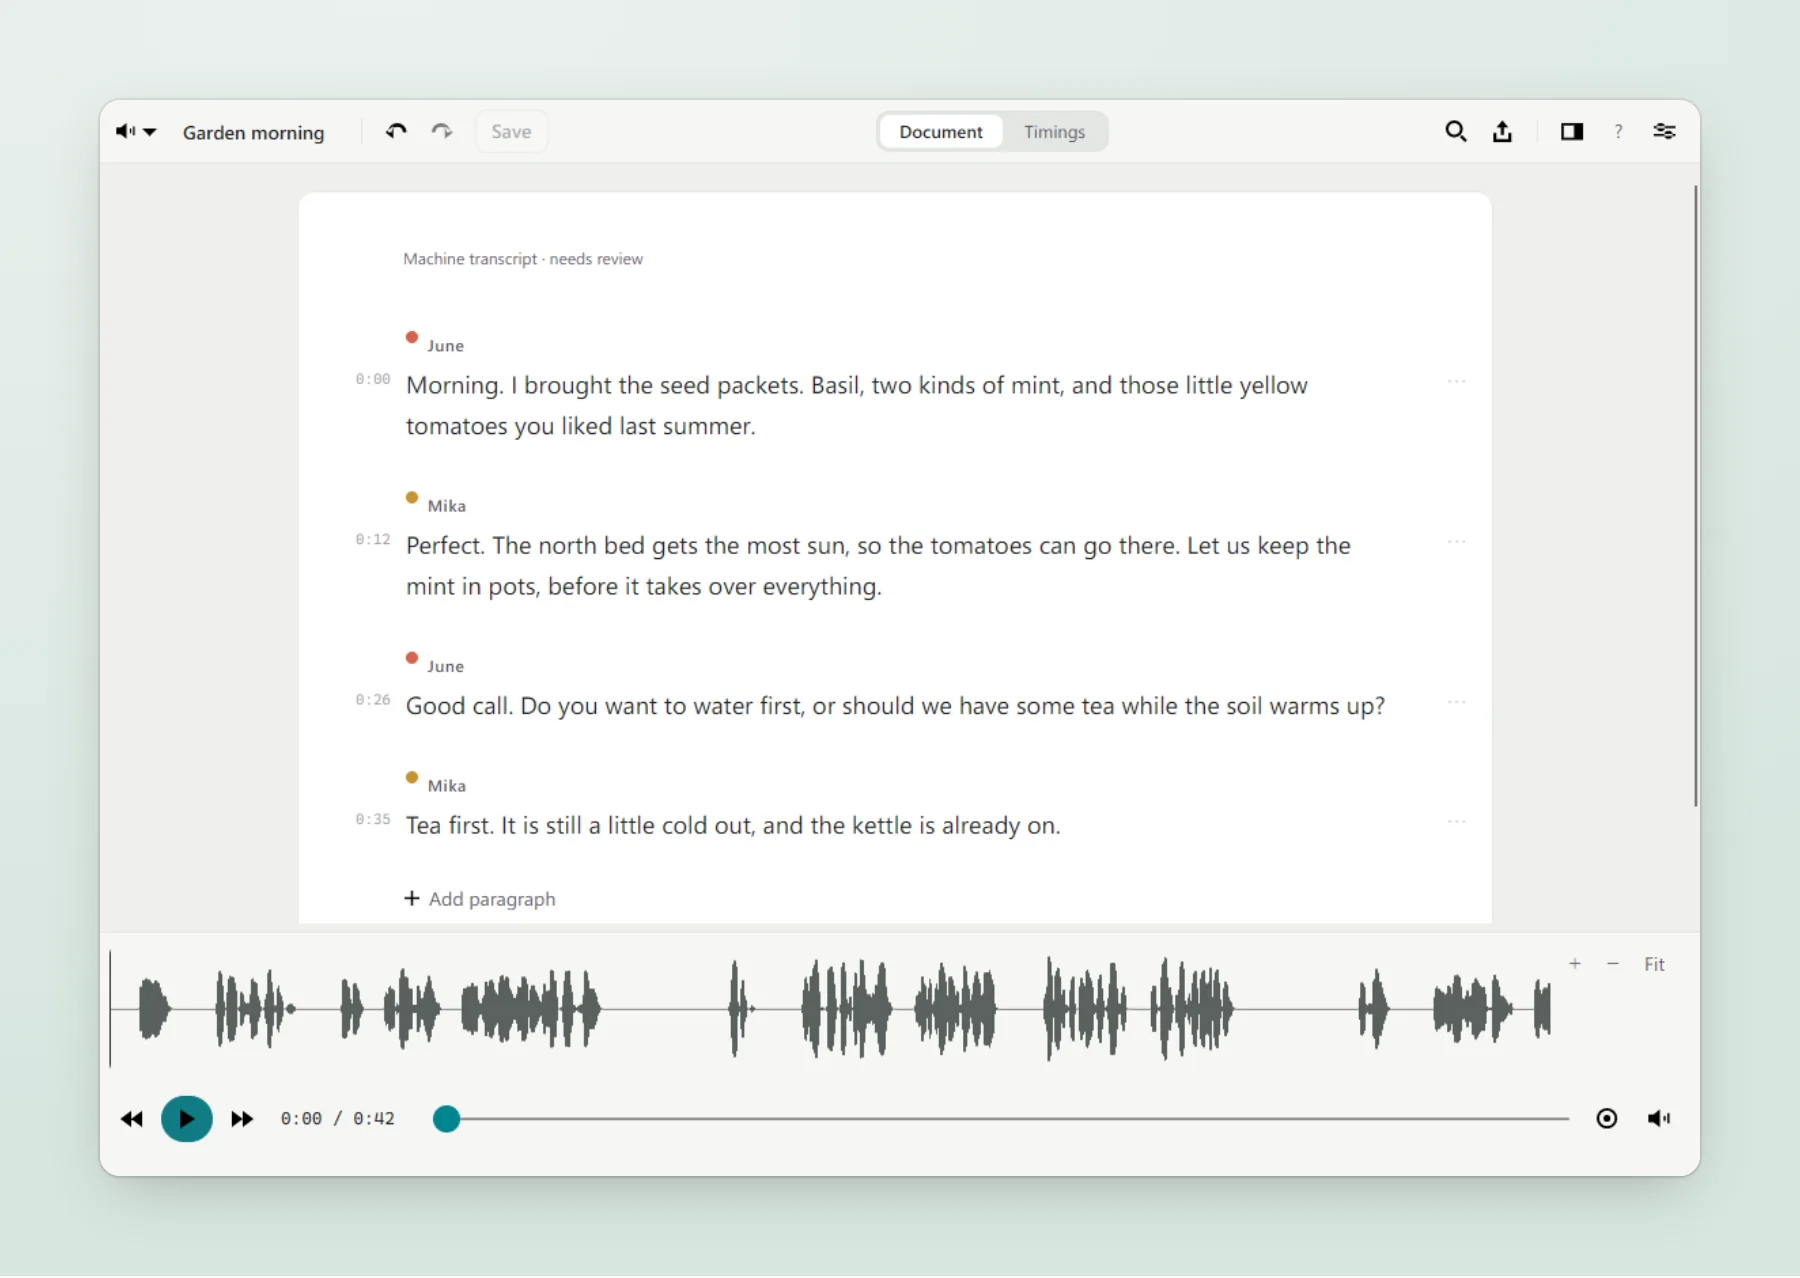
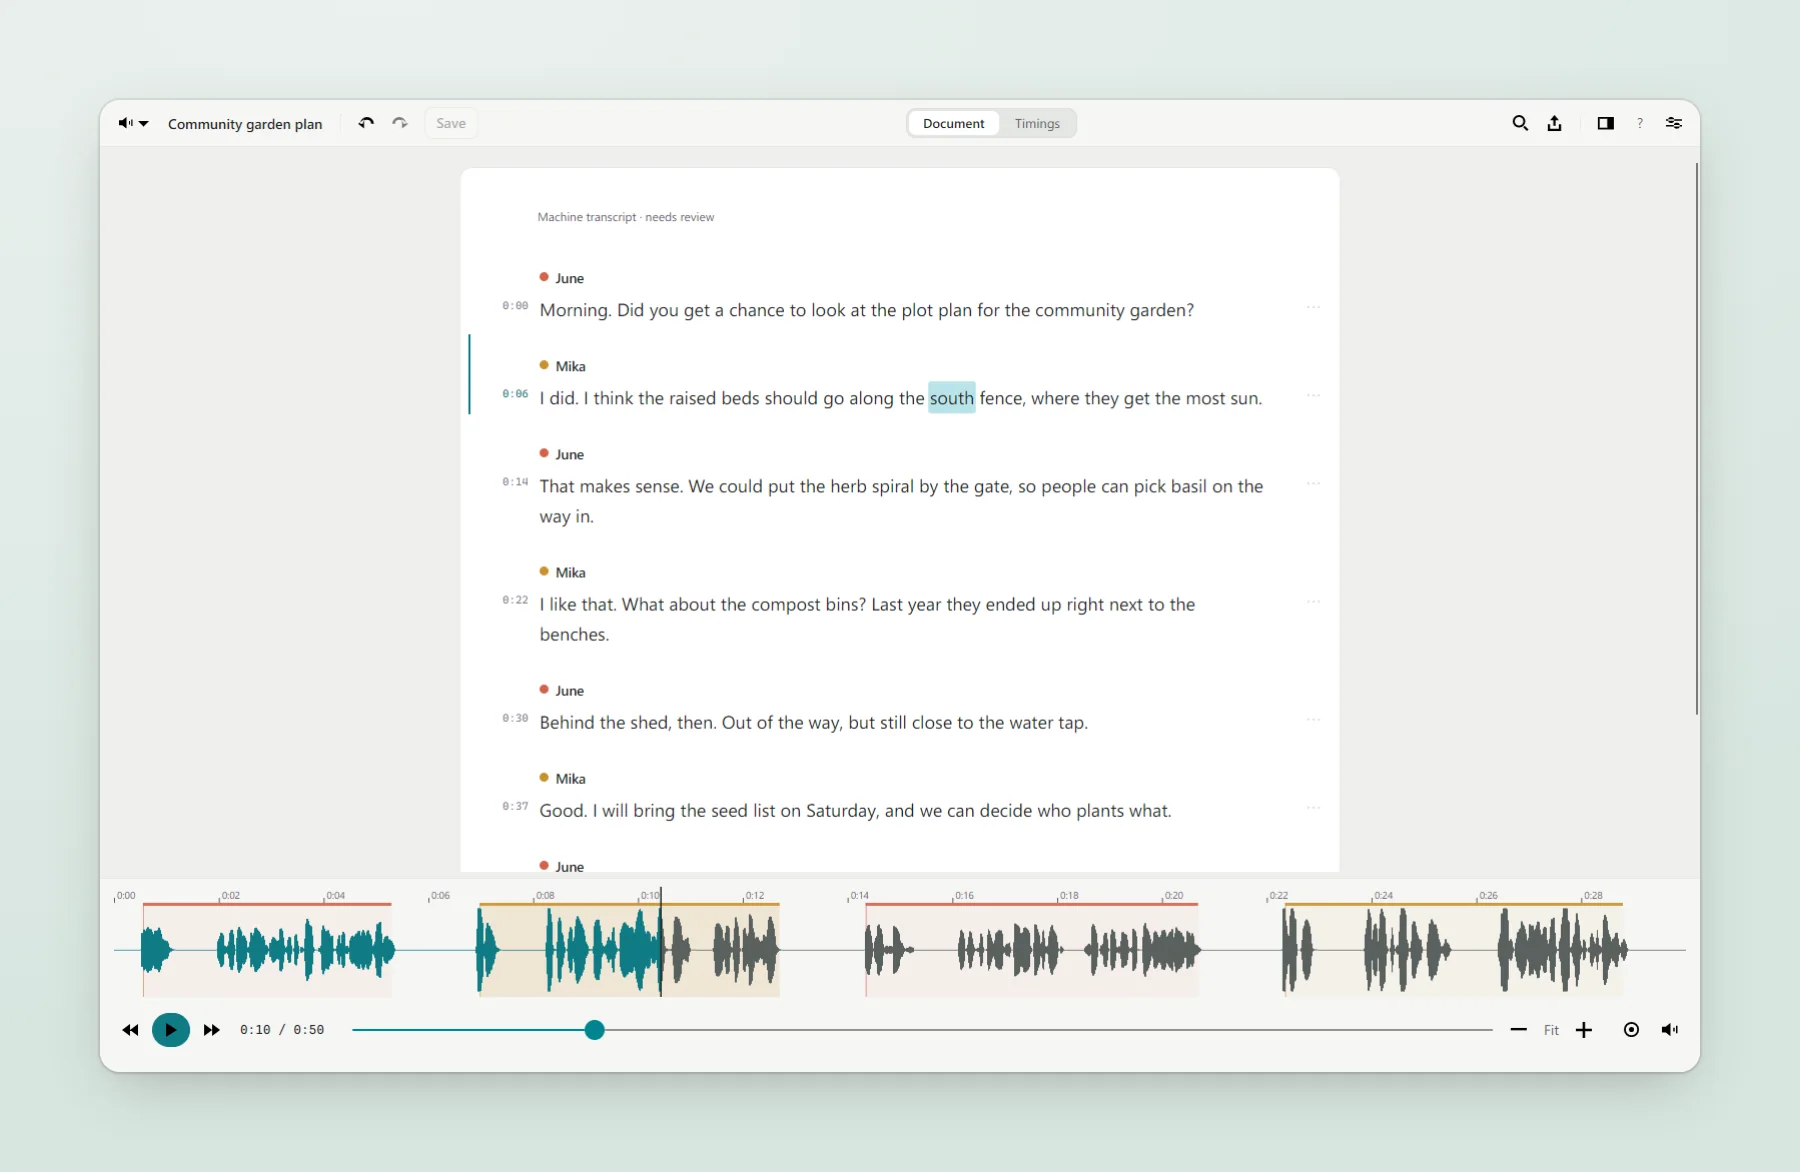
Publish SoundOff v0.2.0 downloads and fresh app screenshots
The SoundOff page links the 0.2.0 release, says what is new in it, and shows
the new start screen. The light and dark shots are a fresh two-voice
text-to-speech conversation transcribed by SoundOff's own WhisperX worker,
with the speakers split and named afterwards and the playhead parked in
Mika's paragraph so the lit word and its waveform band show. frame.mjs can
now reframe just the shots it is given.

diff --git a/site/soundoff/index.html b/site/soundoff/index.html
@@ -21,14 +21,14 @@
       <h1>SoundOff</h1>
       <p class="tagline">A local transcription editor for Windows. Import or record audio and video, transcribe it on your computer, and review word-synced text and speakers. No account, no upload, no hosted inference.</p>
       <div class="actions">
-        <a class="button" href="https://github.com/vaynealtapascine/SoundOff/releases/tag/v0.1.0">Get the preview build</a>
+        <a class="button" href="https://github.com/vaynealtapascine/SoundOff/releases/download/v0.2.0/SoundOff-0.2.0-win-x64.zip">Download for Windows</a>
         <a class="button quiet" href="#get">What you need</a>
       </div>
     </section>
 
     <figure class="figure">
-      <img src="/shots/soundoff.webp" width="1800" height="1278" alt="SoundOff in its light appearance: a conversation between June and Mika about planting tomatoes and mint, with timestamps in the margin and the recording's waveform below.">
-      <figcaption>A 42-second conversation read by two text-to-speech voices, transcribed on the CPU with the small WhisperX model. The two speakers were split and named afterwards, as you would in the Speakers panel.</figcaption>
+      <img src="/shots/soundoff.webp" width="1800" height="1174" alt="SoundOff in its light appearance: a conversation between June and Mika about a community garden. The word being spoken, 'south', is highlighted in Mika's paragraph, and the waveform below shows each paragraph as a band in its speaker's colour.">
+      <figcaption>A 50-second conversation read by two text-to-speech voices and transcribed on the CPU with the small WhisperX model. The speakers were split and named afterwards, as you would in the Speakers panel. The playhead is at 0:10, so the word being said is lit in the text and Mika's band is lit on the waveform.</figcaption>
     </figure>
 
     <h2>What it does</h2>
@@ -36,24 +36,41 @@
       <li><strong>Import or record</strong><span>Bring in audio or video, or record a microphone, your computer's sound, or both at once.</span></li>
       <li><strong>Transcribe on your computer</strong><span>WhisperX runs in a private Python runtime: voice detection, recognition, then word-level alignment.</span></li>
       <li><strong>Review in sync</strong><span>Playback lights up the word being spoken; click any word to jump there. Video plays along.</span></li>
+      <li><strong>See who spoke when</strong><span>The waveform shows each paragraph as a band in its speaker's colour, with a time ruler. Double-click it to play from there.</span></li>
       <li><strong>Correct everything</strong><span>Text, speakers, paragraphs and timing are yours to fix, and every save is a revision you can restore.</span></li>
       <li><strong>Two views</strong><span>Read it as a document, or switch to a subtitle-style table of timed cues.</span></li>
-      <li><strong>Export</strong><span>Text with timecodes, SRT subtitles, the clipboard, or a portable project bundle.</span></li>
+      <li><strong>Keep your hands on the keys</strong><span>Play, skip, step between paragraphs, mark a cue's start and end at the playhead, split, find and replace.</span></li>
+      <li><strong>Export</strong><span>Text with or without timecodes, SRT subtitles, the clipboard, or a portable project bundle.</span></li>
     </ul>
 
+    <h2>New in 0.2.0</h2>
+    <div class="pair">
+      <figure class="figure" style="margin-top: 0">
+        <img src="/shots/soundoff-start.webp" width="1280" height="658" alt="SoundOff's start screen: two tiles side by side, 'Transcribe a file' with a Choose a file button, and 'Record' with the microphone choices and a Record button." loading="lazy">
+        <figcaption>The start screen: bring a file, or record one right there.</figcaption>
+      </figure>
+      <ul class="features" style="grid-template-columns: 1fr">
+        <li><strong>Two ways in</strong><span>Transcribe a file or record, side by side. Drop a file anywhere on the window.</span></li>
+        <li><strong>The next step where you're looking</strong><span>A recording with no transcript offers Transcribe, and its progress, in the middle of the window.</span></li>
+        <li><strong>The transcript on the waveform</strong><span>Speaker-coloured bands, a ruler, and the time under the pointer.</span></li>
+        <li><strong>Recording you can't lose track of</strong><span>A red indicator in the top bar with the clock and Stop.</span></li>
+      </ul>
+    </div>
+
     <figure class="figure">
-      <img src="/shots/soundoff-dark.webp" width="1800" height="1278" alt="The same transcript in SoundOff's dark appearance." loading="lazy">
+      <img src="/shots/soundoff-dark.webp" width="1800" height="1174" alt="The same transcript in SoundOff's dark appearance." loading="lazy">
       <figcaption>Dark is the default appearance.</figcaption>
     </figure>
 
     <h2 id="get">What you need</h2>
     <div class="aside">
-      <p><strong>SoundOff is an early preview (0.1.0).</strong> Windows is the only platform that has actually been run. The macOS and Linux downloads are built from the same source and can import, edit and export, but they can't play or record.</p>
+      <p><strong>SoundOff is an early preview (0.2.0).</strong> Windows is the only platform that has actually been run. The macOS and Linux downloads are built from the same source and can import, edit and export, but they can't play or record.</p>
       <p>You'll also need <code>ffmpeg</code> and <code>ffprobe</code> on your PATH, and a one-time private Python runtime for transcription, set up with <code>python scripts/setup_runtime.py</code>. Model packs download only when you ask. The <a href="https://github.com/vaynealtapascine/SoundOff#readme">README</a> walks through it.</p>
     </div>
     <ul class="downloads" style="margin-top: 1rem">
-      <li><a href="https://github.com/vaynealtapascine/SoundOff/releases/download/v0.1.0/SoundOff-0.1.0-win-x64.zip">Windows x64</a><span class="note">ZIP</span></li>
-      <li><a href="https://github.com/vaynealtapascine/SoundOff/releases/tag/v0.1.0">macOS and Linux</a><span class="note">Untested builds, no playback or recording</span></li>
+      <li><a href="https://github.com/vaynealtapascine/SoundOff/releases/download/v0.2.0/SoundOff-0.2.0-win-x64.zip">Windows x64</a><span class="note">ZIP, 74 MB</span></li>
+      <li><a href="https://github.com/vaynealtapascine/SoundOff/releases/tag/v0.2.0">macOS and Linux</a><span class="note">Untested builds, no playback or recording</span></li>
+      <li><a href="https://github.com/vaynealtapascine/SoundOff/releases">Release notes and earlier versions</a><span class="note">GitHub</span></li>
     </ul>
   </main>
 

diff --git a/site/index.html b/site/index.html
@@ -70,7 +70,7 @@
       </article>
 
       <article class="tool">
-        <a class="shot" href="/soundoff/"><img src="/shots/soundoff.webp" width="1800" height="1278" alt="SoundOff with a transcribed conversation between June and Mika, timestamps in the margin and the waveform below." loading="lazy"></a>
+        <a class="shot" href="/soundoff/"><img src="/shots/soundoff.webp" width="1800" height="1174" alt="SoundOff with a transcribed conversation between June and Mika, the spoken word lit in the text and each paragraph a coloured band on the waveform below." loading="lazy"></a>
         <div>
           <h3>SoundOff</h3>
           <ul class="chips"><li>Windows</li><li>Transcription</li></ul>

diff --git a/README.md b/README.md
@@ -57,7 +57,7 @@ Every screenshot shows the real app doing real work. `scripts/shots/raw/` holds 
 - `capture-web.mjs <dscribe-url> <eo3-url> [disclosure-url]` drives the web apps with Playwright. dScribe downloads its model and describes the sample images on the CPU. The café menu is `raw/garden-cafe-menu.jpg`; the two photos are Windows' bundled wallpapers.
 - `capture-window.ps1` captures one desktop app's own window with `PrintWindow`, never the whole desktop. DryCut ran on `raw/still-life.jpg`, a small scene modelled in Blender for it. It's cropped to the work area so the capture leaves out its gallery. SoundOff opened a project made from a two-voice text-to-speech recording and transcribed by its own WhisperX worker, with settings redirected through `SOUNDOFF_SETTINGS_PATH`.
 - Arbor's shots come from the Arbor repo.
-- `frame.mjs` adds the tinted backdrop and shadow and writes webp. It needs ImageMagick.
+- `frame.mjs [name ...]` adds the tinted backdrop and shadow and writes webp, for every shot or just the ones named. It needs ImageMagick.
 
 ## License
 
